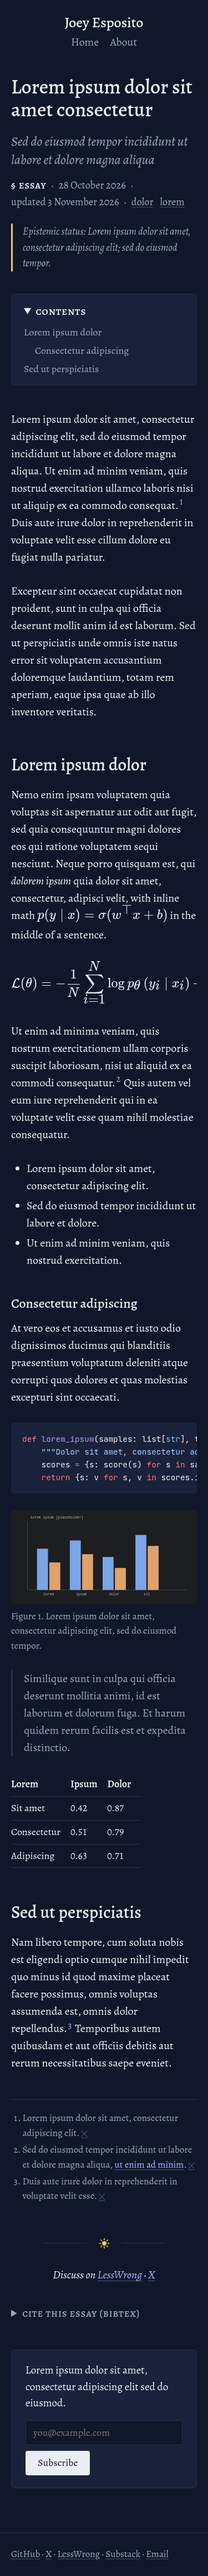
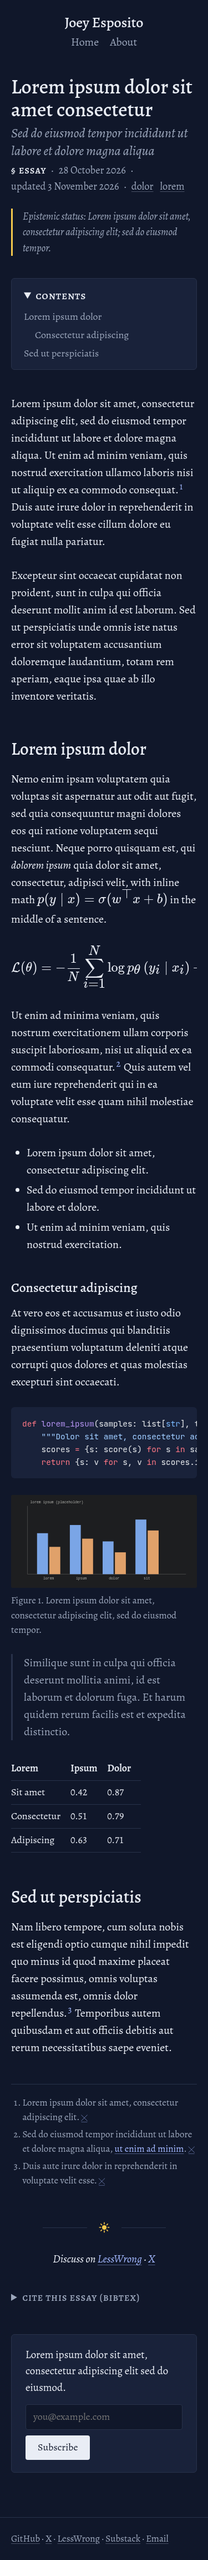
Line a post title's capitals up with the name and tighten the header beneath it

diff --git a/src/styles/global.css b/src/styles/global.css
@@ -127,8 +127,10 @@ body:has(.prose-page) .site-footer { margin-top: 2rem; }
   .home > .intro { grid-row: 1; align-self: center; max-width: var(--measure); margin-bottom: 2rem; }
   .home > .writing { grid-row: 2; align-self: start; }
   /* The opening paragraph's wider leading sets its first letters 5.5px below the name's;
-     raising it lines their tops up on the home and about pages. Post titles already align. */
+     raising it lines their tops up on the home and about pages. A post title's capitals sit
+     3.5px below the name's, so it rises by that much. */
   .prose-page .lede, .home > .intro { margin-top: -0.275rem; }
+  .post-header h1 { margin-top: -0.175rem; }
   /* With the controls out in the rail, the first year divider sits right under the heading. */
   .writing .post-list > .year:first-child { margin-top: 0.4rem; }
 }
@@ -242,9 +244,10 @@ body:has(.prose-page) .site-footer { margin-top: 2rem; }
 
 /* ---------- Posts ---------- */
 .post-header { margin-bottom: 2rem; }
+.post-header h1 { margin-bottom: 0.3rem; }
 .post-header h1 a { color: inherit; }
-.post-subtitle { margin: 0.45rem 0 0.8rem; font-size: 1.2rem; font-style: italic; line-height: 1.35; color: var(--muted); }
-.post-meta { display: flex; flex-wrap: wrap; align-items: baseline; gap: 0 0.45rem; margin: 0.6rem 0 0; font-size: 0.92rem; color: var(--muted); }
+.post-subtitle { margin: 0 0 0.2rem; font-size: 1.2rem; font-style: italic; line-height: 1.35; color: var(--muted); }
+.post-meta { display: flex; flex-wrap: wrap; align-items: baseline; gap: 0 0.45rem; margin: 0; font-size: 0.92rem; color: var(--muted); }
 .post-meta a { color: var(--muted); }
 .post-meta .type { font-size: 0.95rem; color: var(--fg); }
 .post-tags { display: inline-flex; gap: 0.6rem; }

diff --git a/DESIGN.md b/DESIGN.md
@@ -78,9 +78,9 @@ Meta 0.85–0.92rem. Inline code 0.8em; code blocks 0.72rem (14.4px).
   preferred the dots.)
 - From 80rem: the body is a five-column grid (`1fr | rail | measure | rail | 1fr`). The
   header sits in the left rail, right-aligned and sticky, its top 4rem down on every page.
-  The tops of the name's letters line up with the tops of the first line beside it: a post
-  title does so by itself, and the home intro and the about page's opening paragraph are
-  raised 0.275rem to offset their wider leading.
+  The tops of the name's letters line up with the tops of the first line beside it: the home
+  intro and the about page's opening paragraph are raised 0.275rem to offset their wider
+  leading, and a post title 0.175rem so its capitals meet the name's.
   Pages that need it put a sticky panel in the right rail (`.with-rail` and `.rail`): the
   writing list's controls, an essay's contents.
 - Home page, from 80rem: the intro and the margin's name and nav form one top band, and
@@ -97,7 +97,7 @@ Meta 0.85–0.92rem. Inline code 0.8em; code blocks 0.72rem (14.4px).
 | Intro | `src/components/Intro.astro` | Prose paragraph in Joey's voice. The first words are set in small capitals (`.lede strong`). Links are underlined in sunflower; topic links open the list pre-filtered (`/?tag=…#writing`). No drop cap. |
 | PostFilters | `src/components/PostFilters.astro` | Radio groups Type (All/Essays/Projects/Notes), Topic (tags by frequency), Sort (Newest/Most popular). The post count is read to screen readers but not shown, except to say view counts are loading or unavailable. Hidden until its script runs. A type with no posts in the chosen topic fades. State is mirrored in the query string, so filtered views are linkable. Sort always shows "Newest"; "Most popular" appears once `VIEWS_URL` is set, and fetches the view counts once, and if they fail to load the list falls back to newest and says so. |
 | PostList | `src/components/PostList.astro` | Under a "Writing" heading (centred below 80rem). Year dividers (centred year between hairlines) and ruled entries, spaced alike. At every width an entry's title, subtitle and topics are flush with the text's left edge, and its date, with the type directly beneath, stands at the right edge, the date's top level with the title's (both trimmed to the top of their letters with `text-box`); a year's divider takes the place of the rule under the entry above it, and the footer's rule closes the list: a title column (title link, a project's "→ host" repo link in mono, essay subtitle in italic, topic links in mono) and, at the right, a date column (date, type mark). Sorted by views, the dividers disappear and each date shows its year. |
-| Article | `src/components/Article.astro` | Post header (title, subtitle, meta line, epistemic status), contents, body, end mark, discussion links, citation, signup. |
+| Article | `src/components/Article.astro` | Post header (title, then subtitle and meta line set close beneath it, then epistemic status), contents, body, end mark, discussion links, citation, signup. |
 | Contents | `src/components/Contents.astro` | Essays with two or more headings. Box above the text on narrow screens; sticky right rail on wide ones. |
 | EndMark | `src/components/EndMark.astro` | Small sun between two short rules, closing an essay. |
 | DiscussLinks | `src/components/DiscussLinks.astro` | "Discuss on LessWrong · X", centred italic, from the post's syndication URLs. |
